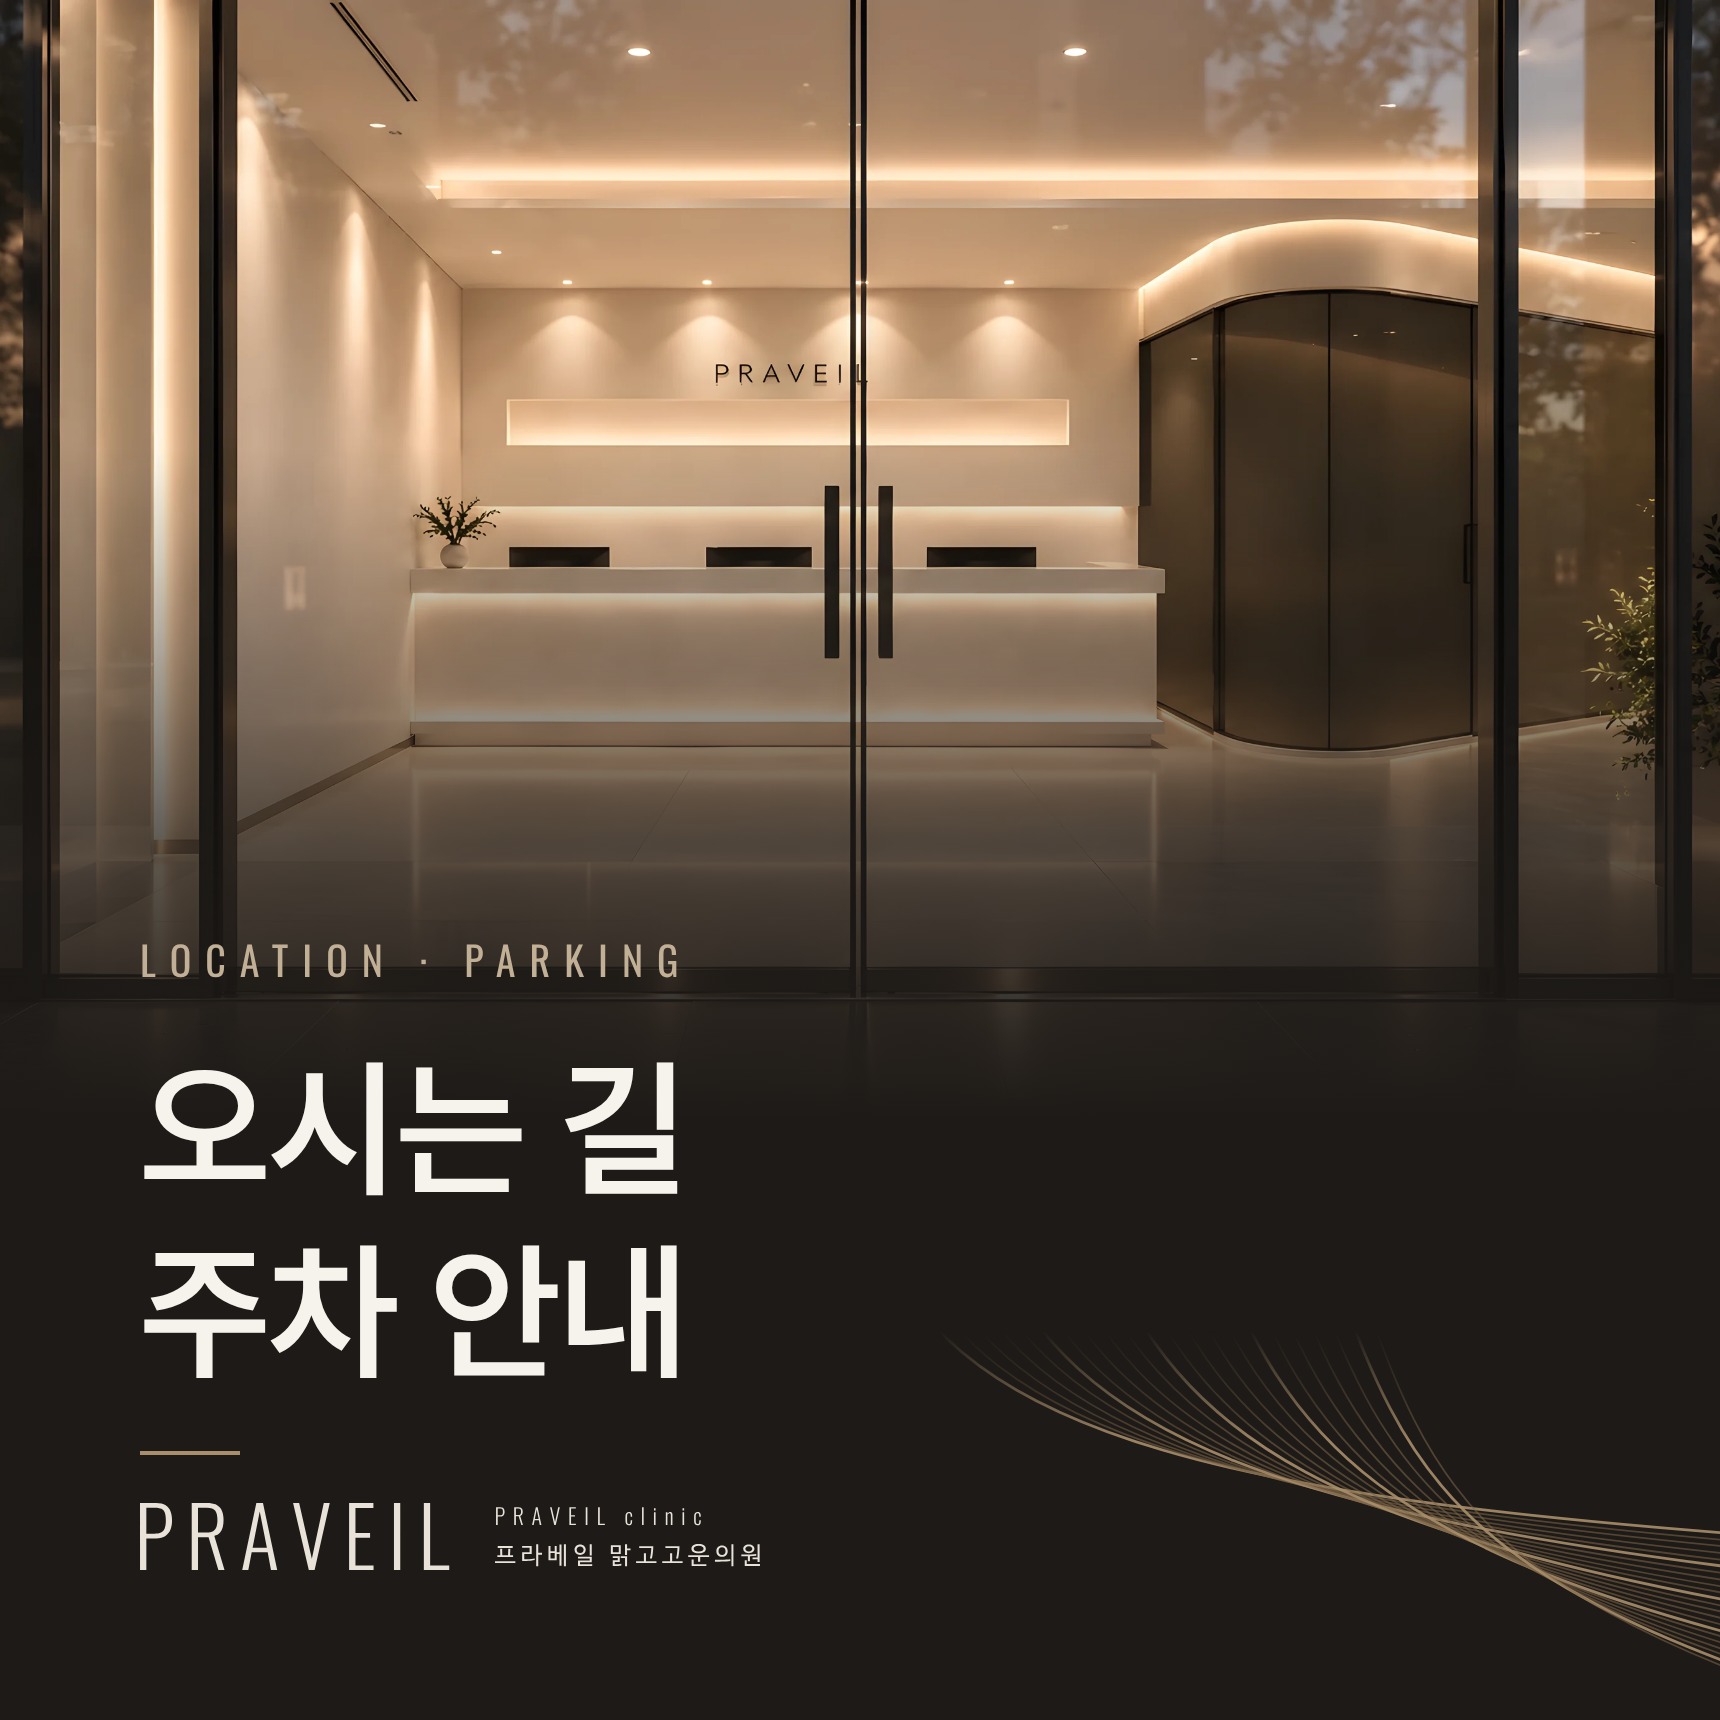
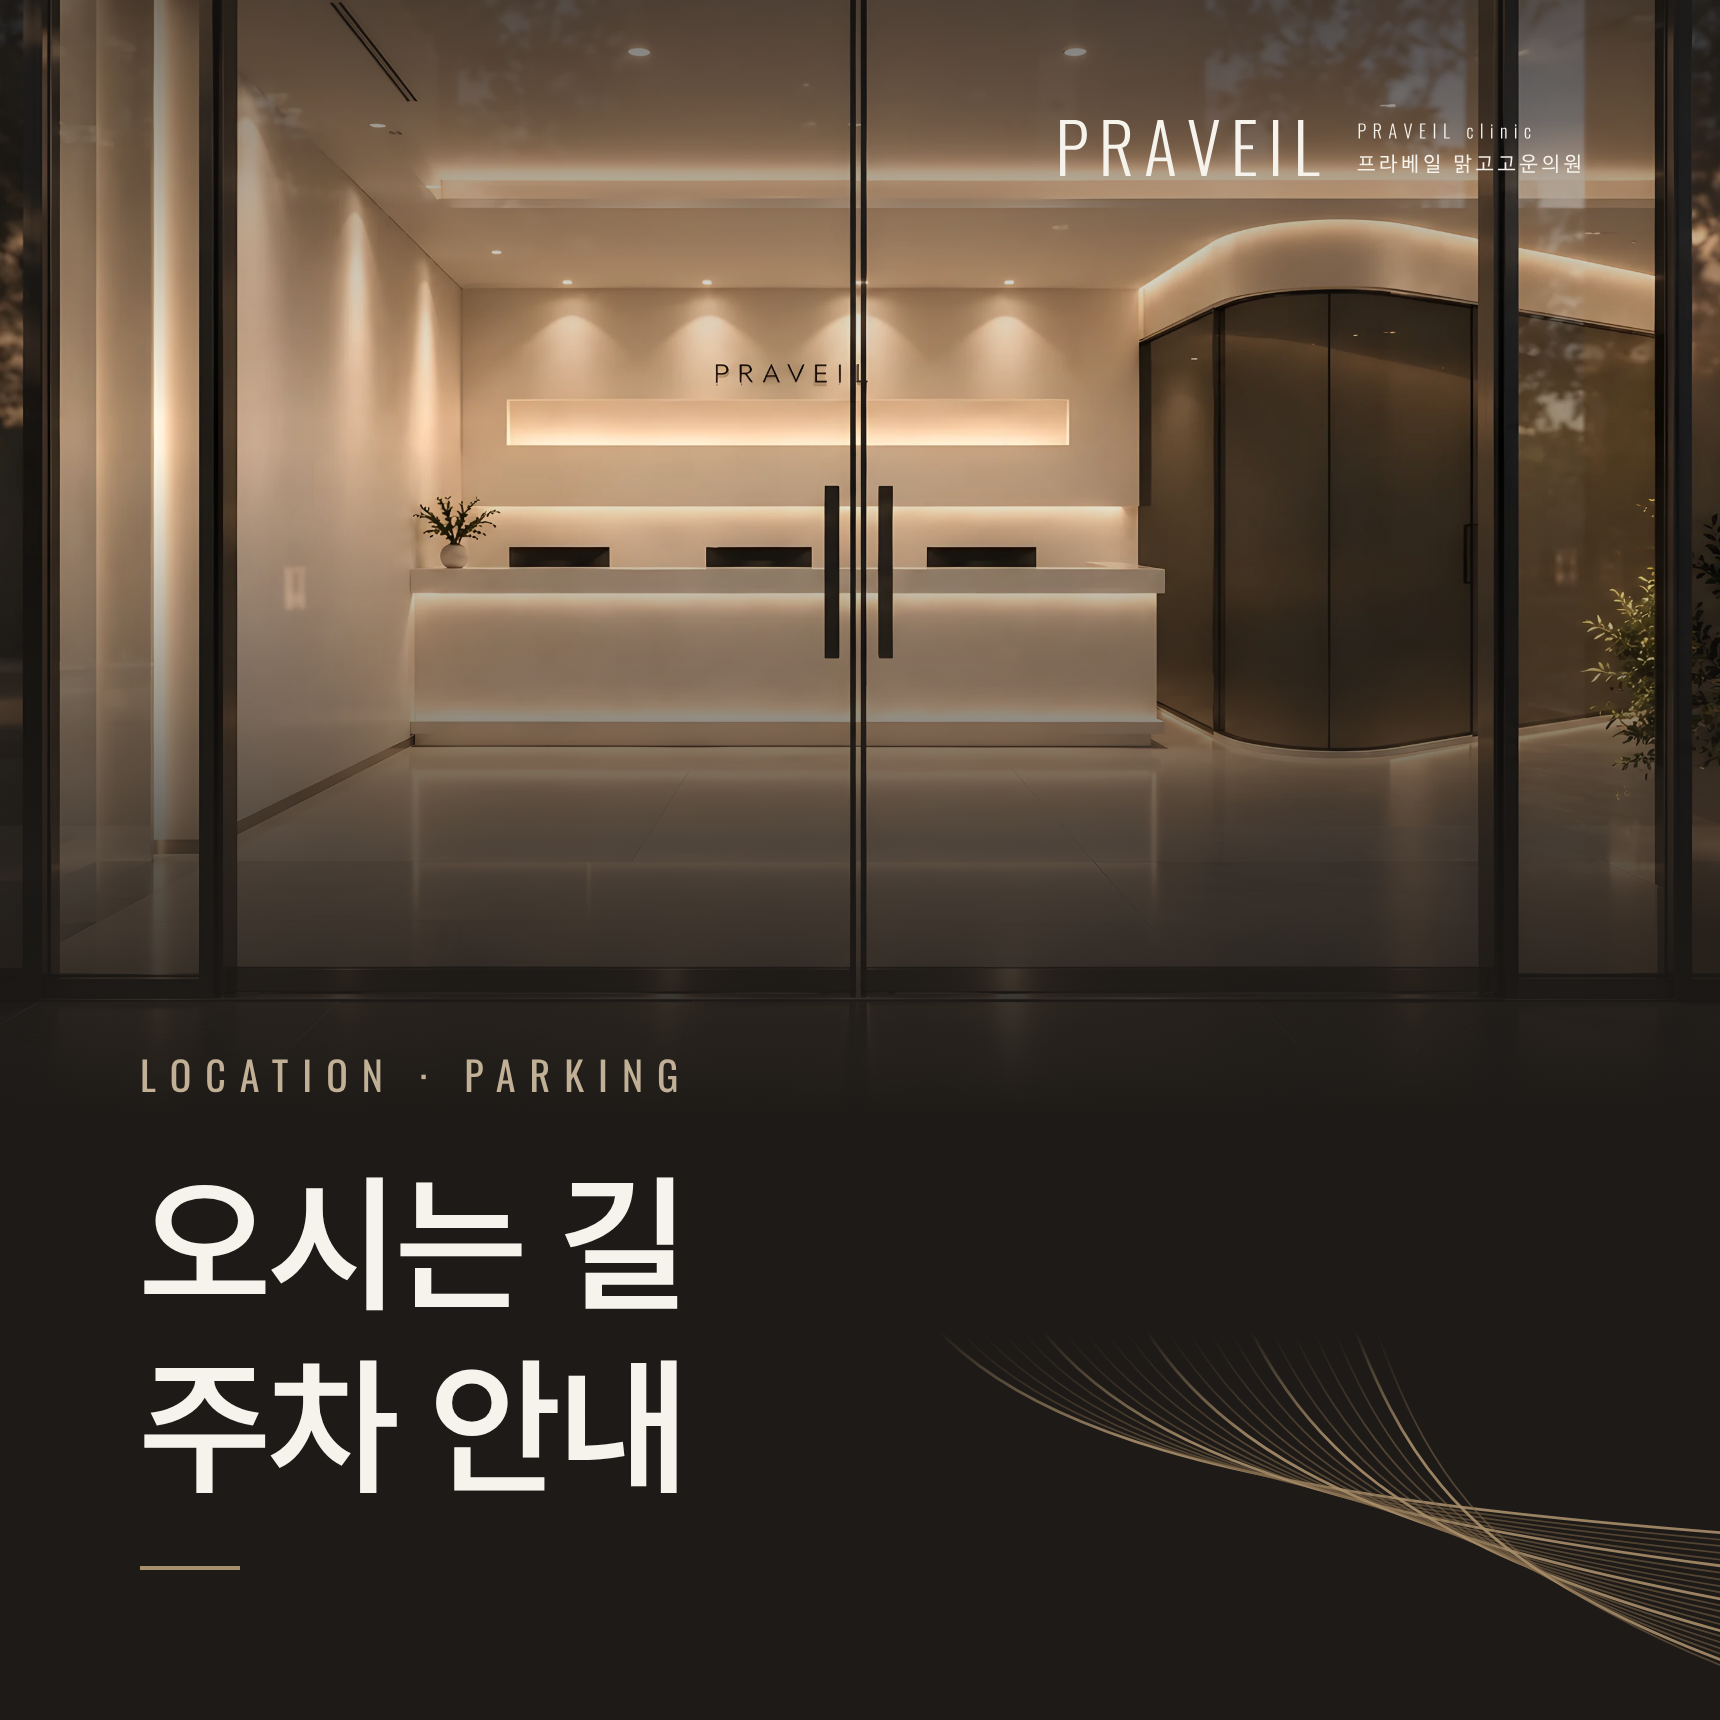
블로그 글 표지 로고를 오른쪽 위로
Claude-Session: https://claude.ai/code/session_01Ld2YJmc6iArSkVBjrjkKUN

diff --git a/docs/naver-blog-skin/posts.html b/docs/naver-blog-skin/posts.html
@@ -175,9 +175,24 @@
         width: 100px;
         height: 4px;
       }
-      .cover .logo {
-        width: 620px;
-        color: var(--line);
+      /* 로고는 오른쪽 위. 사진이 밝아서 위쪽을 살짝 어둡게 깔아 잘 보이게 */
+      .cover .brand {
+        position: absolute;
+        top: 120px;
+        right: 140px;
+        width: 520px;
+        color: var(--ivory);
+      }
+      .cover .top-shade {
+        position: absolute;
+        left: 0;
+        top: 0;
+        width: 1720px;
+        height: 420px;
+        background: linear-gradient(
+          rgba(29, 26, 23, 0.6) 0%,
+          rgba(29, 26, 23, 0) 100%
+        );
       }
       /* ── 본문 카드 (가로 1720): 휴대폰에서 1/5 로 보여도 읽히게 글자 40px 이상 ── */
       /* 소제목은 블로그 글로 쓰므로 카드에는 내용만 */
@@ -355,6 +370,7 @@
         />
       </div>
       <div class="fade"></div>
+      <div class="top-shade"></div>
       <svg class="pattern" width="1720" height="1720" viewBox="0 0 1720 1720">
         <g fill="none">
           <path class="hi" d="M880 1240 C 960 1440, 1240 1500, 1820 1540" />
@@ -385,8 +401,8 @@
         <p class="en">Location · Parking</p>
         <h1>오시는 길<br />주차 안내</h1>
         <div class="rule"></div>
-        <div class="logo">{{LOGO}}</div>
       </div>
+      <div class="logo brand">{{LOGO}}</div>
     </section>
 
     <section class="asset card" id="p1-subway">
@@ -454,6 +470,7 @@
         <img class="photo" src="../../public/images/photos/hero-consult.webp" />
       </div>
       <div class="fade"></div>
+      <div class="top-shade"></div>
       <svg class="pattern" width="1720" height="1720" viewBox="0 0 1720 1720">
         <g fill="none">
           <path class="hi" d="M880 1240 C 960 1440, 1240 1500, 1820 1540" />
@@ -484,8 +501,8 @@
         <p class="en">Reservation</p>
         <h1>진료 예약<br />안내</h1>
         <div class="rule"></div>
-        <div class="logo">{{LOGO}}</div>
       </div>
+      <div class="logo brand">{{LOGO}}</div>
     </section>
 
     <section class="asset card" id="p2-ways">
@@ -549,6 +566,7 @@
         <img class="photo" src="../../public/images/photos/hero-lobby.webp" />
       </div>
       <div class="fade"></div>
+      <div class="top-shade"></div>
       <svg class="pattern" width="1720" height="1720" viewBox="0 0 1720 1720">
         <g fill="none">
           <path class="hi" d="M880 1240 C 960 1440, 1240 1500, 1820 1540" />
@@ -579,8 +597,8 @@
         <p class="en">Notice</p>
         <h1>뉴리즈의원 인천점<br />병원명 변경 안내</h1>
         <div class="rule"></div>
-        <div class="logo">{{LOGO}}</div>
       </div>
+      <div class="logo brand">{{LOGO}}</div>
     </section>
 
     <section class="asset card" id="p3-change">
